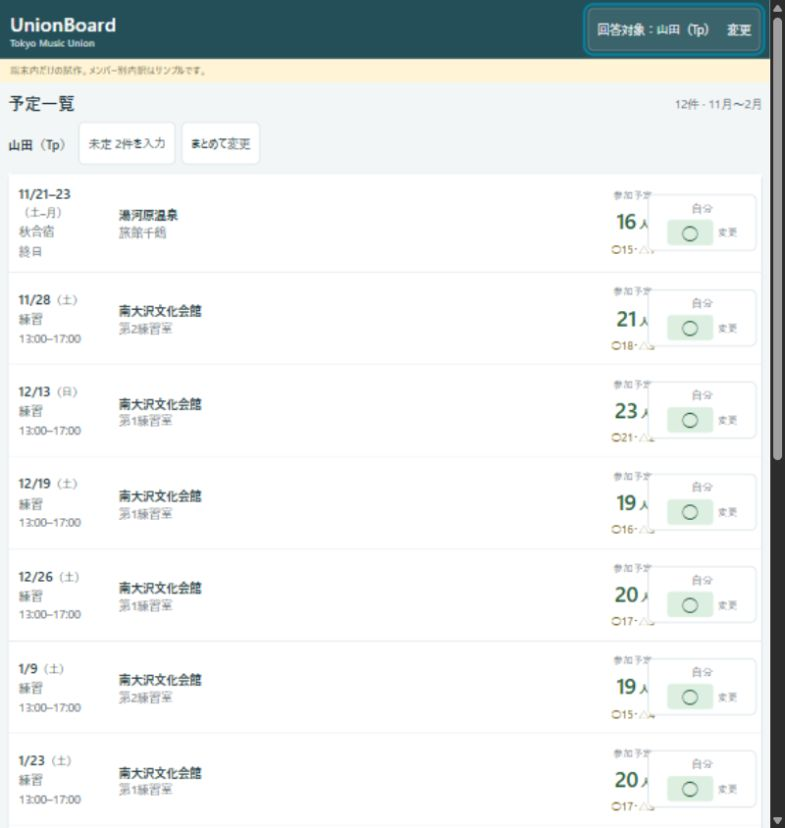
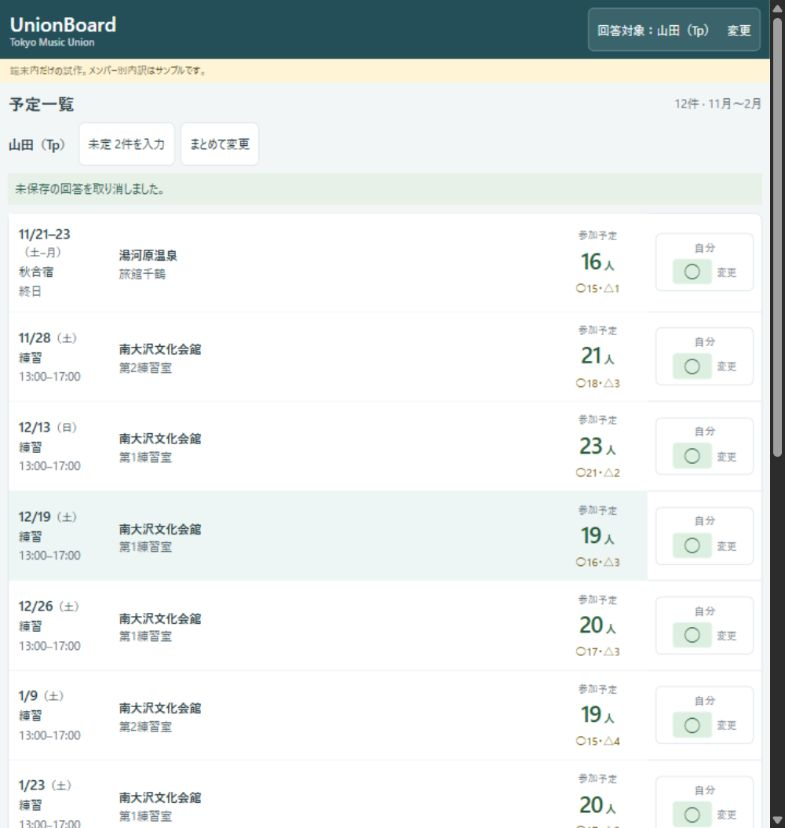
予定人数と自分の回答が重なる配置を修正

diff --git a/docs/prototypes/mobile-study/v4/index.html b/docs/prototypes/mobile-study/v4/index.html
@@ -2,9 +2,11 @@
 <style>
 :root{font:16px system-ui,'Yu Gothic',sans-serif;color:#233942;background:#f3f6f7;--ink:#254f58;--line:#d7e1e4;--yes:#dcefe1;--late:#fff0ba;--no:#f6dbe2;--unknown:#eceff2}*{box-sizing:border-box}[hidden]{display:none!important}body{margin:0;min-block-size:100dvh;overflow-wrap:anywhere}button,input,select,textarea{font:inherit;color:inherit}button,select{min-inline-size:44px;min-block-size:44px;border:1px solid var(--line);border-radius:6px;background:#fff;padding:7px 9px}button{cursor:pointer}button:disabled{opacity:.5;cursor:default}:where(a,button,input,select,textarea,[tabindex]):focus-visible{outline:3px solid #087e9a;outline-offset:2px}p{line-height:1.6;margin:6px 0}h1,h2,h3{margin:0;text-wrap:balance}h1{font-size:20px}h2{font-size:17px}h3{font-size:15px}header{background:var(--ink);color:white;display:flex;justify-content:space-between;align-items:center;gap:7px;padding:8px max(10px,env(safe-area-inset-right,0px)) 8px max(10px,env(safe-area-inset-left,0px))}header small{display:block;font-size:10px;color:#c9dadd}header button{background:#3b636c;border-color:#708f97;color:white;font-size:12px;max-inline-size:62%}.sample{font-size:10px;background:#fff4d5;color:#695b31;margin:0;padding:4px 10px}main{max-inline-size:850px;margin:auto;padding:0 8px 28px;container:board / inline-size}.modes{display:flex;gap:5px;margin:9px 0}.modes button{flex:1;font-size:13px;font-weight:700}.modes [aria-pressed=true]{background:#e2edef;border:2px solid var(--ink)}.heading,.panel-head,.crumb{display:flex;align-items:center;justify-content:space-between;gap:5px;margin:10px 0 7px}.muted{font-size:12px;color:#586c75}.toolbar,.links{display:flex;gap:6px;align-items:center;flex-wrap:wrap;margin:8px 0}.toolbar button,.links button,.links a{font-size:12px}.toolbar strong{font-size:13px}.primary{background:var(--ink);color:white;border-color:var(--ink)}.schedule{width:100%;table-layout:fixed;border-collapse:separate;border-spacing:0;background:white;border:1px solid var(--line);border-radius:8px;font-size:12px}.schedule caption{text-align:start;font-size:11px;color:#5d7079;caption-side:bottom;padding:6px 0}.schedule thead th{position:sticky;inset-block-start:0;background:#e8eff1;z-index:3;font-size:11px}.schedule th,.schedule td{text-align:start;vertical-align:middle;border-bottom:1px solid var(--line);padding:9px 5px}.schedule tbody th{font-weight:400}.schedule th:first-child{width:96px}.schedule th.count-col{width:78px;text-align:center}.schedule th.self-col{width:57px;text-align:center}.date{font-size:15px;font-weight:750;line-height:1.3}.weekday{font-size:11px;font-weight:400}.event-title{font-size:11px;line-height:1.3;margin-top:4px}.time{font-size:11px;color:#52666e;margin-top:2px;line-height:1.5}.place{font-size:12px;font-weight:650;line-height:1.5}.room{display:block;font-size:12px;font-weight:400;color:#536970}.schedule .count-cell{padding:3px}.count-button{width:100%;border:0;background:none;padding:4px 2px;min-block-size:64px;line-height:1.1}.count-main{display:block;font-size:24px;font-weight:750;letter-spacing:-.04em;color:#295e3a}.count-main small{font-size:11px;font-weight:500;letter-spacing:0}.count-sub{display:block;font-size:11px;color:#76580a;margin-top:6px}.count-caption{display:block;font-size:10px;color:#5c747a;margin-top:5px}.self-cell{padding:4px!important;text-align:center!important}.self-button{font-size:22px;inline-size:47px;min-block-size:48px;padding:2px;border-color:#b5cad0}.self-button.unselected{font-size:11px}.self-heading{border:0;background:none;font-size:10px;line-height:1.4;padding:0;width:100%}.performer th:first-child{width:83px}.performer .date{font-size:14px}.performer th.count-col{width:66px}.performer .count-main{font-size:22px}.selected-row>th,.selected-row>td{background:#edf4f4}.expanded-cell{padding:0!important;background:#f3f8f8}.panel{padding:10px 9px;border-block-start:2px solid #638e97}.panel-head{align-items:start;margin-top:0}.panel-head h3{margin-top:7px}.panel-head button{font-size:12px;flex-shrink:0}.detail-note{font-size:11px;color:#60757d;margin:7px 0}.part-list{margin:6px 0 10px}.part-row{display:grid;grid-template-columns:76px 1fr;align-items:center;background:white;border-bottom:1px solid var(--line)}.part-row dt{padding:0 5px}.part-row dt button{width:100%;text-align:start;border:0;background:none;padding:4px;font-size:14px}.part-row dt small{font-size:10px;color:#60757d}.part-row dd{display:grid;grid-template-columns:repeat(4,1fr);gap:3px;margin:0;padding:5px 5px 5px 0}.stat{display:inline-flex;align-items:center;justify-content:center;gap:3px;padding:6px 3px;border-radius:4px;font-size:13px;min-block-size:34px}.yes{background:var(--yes);color:#2a5938}.late{background:var(--late);color:#6d530c}.no{background:var(--no);color:#79344b}.unknown{background:var(--unknown);color:#56616c}.member-list{list-style:none;margin:6px 0;padding:0}.member-list li{display:flex;align-items:center;justify-content:space-between;gap:8px;background:white;padding:3px 6px;border-bottom:1px solid var(--line)}.member-list button{border:0;background:none;text-align:start;font-size:13px}.answer{font-size:13px;padding:5px 9px;border-radius:4px}.event-summary{background:white;padding:12px;border:1px solid var(--line);border-radius:8px;margin-bottom:8px}.event-summary h2{font-size:20px}.event-summary .place{font-size:14px;margin-top:6px;display:block}.counts{display:flex;gap:6px;flex-wrap:wrap;margin-top:8px}.crumb{justify-content:start}.crumb button{font-size:12px}.links{margin-top:14px}.links a{display:inline-flex;align-items:center;min-block-size:44px;padding:6px 8px;color:#315d69}.legend{font-size:11px;color:#566b74;line-height:1.7;margin:8px 0}.lab{margin-top:18px;border-top:1px dashed var(--line);padding-top:6px}.lab summary{min-block-size:44px;display:flex;align-items:center;cursor:pointer;font-size:12px}.lab label{display:flex;align-items:center;gap:7px;font-size:12px;margin:7px 0}.lab select{flex:1;max-inline-size:220px}.status{font-size:12px;color:#2c6251;line-height:1.5}.status:not(:empty){background:#e7f1e8;padding:7px;margin:7px 0}.save-note{font-size:11px;background:#fff2cd;padding:7px}.skip{position:absolute;inset-block-start:-120px;inset-inline-start:7px;z-index:30;background:white;padding:12px}.skip:focus{inset-block-start:3px}dialog{width:calc(100% - 20px);max-inline-size:550px;max-block-size:90vh;max-block-size:90dvh;border:0;border-radius:12px;padding:0;color:inherit;box-shadow:0 10px 45px #153b4b40}dialog[open]{display:flex;flex-direction:column}dialog:modal{overscroll-behavior:contain}dialog::backdrop{background:#193d50a3;overflow:hidden;overscroll-behavior:contain}.dialog-head{display:flex;justify-content:space-between;align-items:center;gap:8px;padding:11px 12px 7px;flex-shrink:0}.dialog-head h2{font-size:17px}.dialog-head button{font-size:12px;flex-shrink:0}.dialog-body{overflow:auto;overscroll-behavior:contain;padding:0 12px 12px;min-block-size:0}.field{display:grid;gap:5px;margin:10px 0}.field label{font-size:13px;font-weight:650}.field select{width:100%}.check{display:flex;align-items:center;gap:7px;min-block-size:44px;font-size:13px}input[type=checkbox]{width:23px;height:23px;accent-color:var(--ink)}.editor-row{border:0;border-bottom:1px solid var(--line);margin:0;padding:12px 0}.editor-row legend{font-size:15px;font-weight:700;padding:0}.editor-meta{display:flex;justify-content:space-between;align-items:start;gap:4px;font-size:11px;margin:3px 0 7px;line-height:1.5}.editor-meta strong{font-weight:500}.choices{display:grid;grid-template-columns:repeat(4,1fr);gap:5px}.choices button{font-size:20px;padding:4px;min-block-size:47px;min-inline-size:44px}.choices button[aria-pressed=true]{outline:2px solid var(--ink);outline-offset:-3px;font-weight:750}.choices small{display:block;font-size:10px;font-weight:400}.editor-row.changed{background:#fffbef}.dialog-foot{border-top:1px solid var(--line);padding:8px 12px max(8px,env(safe-area-inset-bottom,0px));background:white;display:flex;align-items:center;justify-content:space-between;gap:6px;flex-wrap:wrap;flex-shrink:0}.dialog-foot button{font-size:13px}.dialog-foot span{font-size:12px}.editor-filter{display:flex;gap:5px;align-items:center;flex-wrap:wrap;margin:5px 0 9px}.editor-filter button{font-size:12px}.editor-filter [aria-pressed=true]{background:#e1edef;border-color:#5c858e}textarea{width:100%;min-block-size:90px;font-size:16px;padding:9px;border:1px solid var(--line);border-radius:6px}.comment{font-size:13px;white-space:pre-wrap;padding:8px 0;border-bottom:1px solid var(--line)}.matrix-wrap{max-block-size:55vh;overflow:auto;border:1px solid var(--line);border-radius:6px;overscroll-behavior:contain;scroll-padding-inline-start:124px}.matrix{border-collapse:separate;border-spacing:0;font-size:12px;background:white}.matrix th,.matrix td{border-bottom:1px solid var(--line);border-right:1px solid var(--line);padding:5px;text-align:center;min-inline-size:32px}.matrix thead th{position:sticky;top:0;background:#e7eef0;z-index:2;font-size:10px}.matrix tbody th{position:sticky;left:0;background:white;min-inline-size:124px;max-inline-size:124px;z-index:1;font-size:10px;text-align:start}.matrix thead th:first-child{left:0;z-index:4}.matrix th button{font-size:10px;border:0;padding:1px;background:none;min-inline-size:44px}.matrix td{font-size:15px}.matrix caption{text-align:start;padding:6px;font-size:11px;color:#566b73}.person-table{border-collapse:collapse;width:100%;font-size:12px}.person-table td,.person-table th{border-bottom:1px solid var(--line);padding:8px;text-align:start}.person-table th{font-weight:500}.person-table td:last-child{font-size:19px;text-align:center}.person-table caption{text-align:start;font-size:11px;padding:6px 0}.search{min-block-size:44px;width:100%;font-size:16px;border:1px solid var(--line);border-radius:6px;padding:8px}.people-find{list-style:none;margin:5px 0;padding:0}.people-find li{border-bottom:1px solid var(--line)}.people-find button{width:100%;text-align:start;border:0}@container board (inline-size > 650px){.schedule th:first-child,.performer th:first-child{width:150px}.schedule th.count-col{width:120px}.schedule th.self-col{width:90px}.date,.performer .date{font-size:17px}.place,.room,.performer .place,.performer .room{font-size:14px}.event-title,.time,.performer .time{font-size:12px}.part-list{max-inline-size:520px}.schedule th,.schedule td{padding:10px}.count-button{max-inline-size:100px}.self-heading{font-size:12px}}@container board (inline-size < 330px){.schedule th:first-child{width:89px}.schedule th.count-col{width:68px}.performer th:first-child{width:76px}.performer th.count-col{width:59px}.performer th.self-col{width:51px}.schedule th,.schedule td{padding:8px 3px}.place,.room{font-size:11px}.date{font-size:14px}.self-button{inline-size:44px}.count-main{font-size:22px}.part-row{grid-template-columns:64px 1fr}.stat{font-size:12px;padding-inline:2px}}@media(forced-colors:active){.choices [aria-pressed=true]{outline:3px solid Highlight}}@media(prefers-reduced-motion:reduce){*{scroll-behavior:auto!important}}
 
-.cassettes{list-style:none;padding:0;margin:8px 0;border:1px solid var(--line);border-radius:8px;background:white}.cassettes li+li{border-top:1px solid var(--line)}.cassette{display:grid;grid-template-columns:94px minmax(0,1fr) 82px 72px;align-items:center;gap:8px;width:100%;border:0;border-radius:0;text-align:start;background:white;padding:12px 10px;font-weight:400}.cassette:hover{background:#edf5f5}.cassette:focus-visible{outline-offset:-3px}.cassette-count{text-align:center}.cassette .count-caption{display:none}.cassette-self{display:flex;align-items:center;justify-content:end;gap:5px}.self-label{font-size:11px;color:#586c75}.cassette .self-button{display:inline-flex;align-items:center;justify-content:center;width:auto;min-width:26px;min-height:29px;border:0;border-radius:4px;font-size:18px;padding:2px 5px}.cassette .unselected{font-size:11px;background:#eceff2}.chevron{font-size:20px;color:#71838a}.cassette .place,.cassette .room{font-size:12px}.cassette .date{font-size:14px}.cassette .count-main{font-size:23px}.cassette .count-sub{white-space:nowrap}@container board (inline-size < 370px){.cassette{grid-template-columns:88px minmax(0,1fr) 76px;gap:7px;padding:11px 9px}.cassette-self{grid-column:1 / -1;justify-content:start;border-top:1px solid #e8edef;padding-top:7px;margin-top:1px}.cassette-self .chevron{margin-left:auto}.cassette .place,.cassette .room{font-size:12px}}
-.participant-label{font-size:10px;color:#587078;display:block;margin-bottom:3px}
-.cassette-wrap{position:relative}.cassette{padding-right:90px;grid-template-columns:94px minmax(0,1fr) 82px}.cassette>.chevron{display:none}.cassette-self{position:absolute;right:5px;top:50%;transform:translateY(-50%);border:1px solid var(--line);border-radius:6px;padding:5px;min-height:54px;min-width:72px;flex-wrap:wrap;justify-content:center;background:white}.cassette-self .self-label{width:100%;text-align:center}.cassette-self .self-button{font-size:18px;min-width:25px;min-height:25px;padding:1px 4px;border:0;border-radius:4px}.cassette-self .unselected{font-size:11px}.edit-hint{font-size:10px;color:#536d75}@container board (inline-size < 370px){.cassette-wrap{padding-bottom:54px}.cassette{padding-right:9px;grid-template-columns:88px minmax(0,1fr) 76px}.cassette-self{left:9px;right:auto;top:auto;bottom:5px;transform:none;min-height:44px;width:auto;gap:7px;padding:5px 10px;margin:0;border:1px solid var(--line)}.cassette-self .self-label{width:auto}.cassette-wrap:after{content:"";position:absolute;bottom:53px;left:9px;right:9px;border-top:1px solid #e8edef;pointer-events:none}}
+.cassettes{list-style:none;padding:0;margin:8px 0;border:1px solid var(--line);border-radius:8px;background:white}.cassettes li+li{border-top:1px solid var(--line)}
+.cassette-wrap{display:grid;grid-template-columns:minmax(0,1fr) 100px;align-items:center;gap:8px;padding-inline-end:8px}
+.cassette{display:grid;grid-template-columns:94px minmax(0,1fr) 82px;align-items:center;gap:8px;inline-size:100%;min-inline-size:0;border:0;border-radius:0;text-align:start;background:white;padding:12px 10px;font-weight:400}.cassette:hover{background:#edf5f5}.cassette:focus-visible{outline-offset:-3px}.cassette>*{min-inline-size:0}.cassette-count{text-align:center}.cassette .count-caption,.cassette>.chevron{display:none}.cassette .place,.cassette .room{font-size:12px}.cassette .date{font-size:14px}.cassette .count-main{font-size:23px}.cassette .count-sub{white-space:nowrap}.participant-label{font-size:10px;color:#587078;display:block;margin-bottom:3px}
+.cassette-self{display:flex;align-items:center;justify-content:center;flex-wrap:wrap;gap:5px;min-block-size:54px;min-inline-size:0;padding:6px;border:1px solid var(--line);border-radius:6px;background:white}.self-label{font-size:11px;color:#586c75;inline-size:100%;text-align:center}.cassette-self .self-button{display:inline-flex;align-items:center;justify-content:center;inline-size:40px;min-inline-size:0;min-block-size:25px;padding:1px 4px;border:0;border-radius:4px;font-size:18px}.cassette-self .unselected{font-size:11px;background:#eceff2}.edit-hint{font-size:10px;color:#536d75}
+@container board (inline-size < 470px){.cassette-wrap{grid-template-columns:minmax(0,1fr);gap:0;padding-inline-end:0}.cassette{grid-template-columns:80px minmax(0,1fr) 76px;gap:7px;padding:11px 9px}.cassette-self{justify-self:start;flex-wrap:nowrap;min-block-size:44px;margin:0 9px 8px;padding:5px 10px;gap:7px}.cassette-self .self-label{inline-size:auto}}
 </style></head><body><a class="skip" href="#schedule-heading">予定一覧へ</a><header><h1>UnionBoard<small>Tokyo Music Union</small></h1><button id="identity-button">自分を選ぶ</button></header><p class="sample">端末内だけの試作。メンバー別内訳はサンプルです。</p><main id="app"></main><dialog id="dialog" aria-labelledby="dialog-title"><div class="dialog-head"><h2 id="dialog-title"></h2><button id="dialog-close" autofocus>閉じる</button></div><div class="dialog-body" id="dialog-body"></div><div class="dialog-foot" id="dialog-foot" hidden></div></dialog>
 <script>
 'use strict';

diff --git a/docs/prototypes/mobile-study/v4/README.md b/docs/prototypes/mobile-study/v4/README.md
@@ -4,7 +4,7 @@
 
 - タブを撤去し、日程・場所・参加予定人数（○＋△）・○△内訳・自分の回答を常に表示。
 - 日程・場所・人数は詳細画面へ。「自分」は独立したボタンで、未選択ならメンバー選択後に押した日程の編集へ、選択済みなら直接その日の編集モーダルを開く。
-- 表示領域370px未満では自分の回答を下段へ配置。幅が足りる場合は横並び。
+- 表示領域470px未満では自分の回答を下段へ配置。幅が足りる場合は横並び。
 - 未選択なら自分：未選択。選択・任意の端末記憶・詳細からの出欠変更・未定の一括入力は維持。
 - v3とは保存キーを分離。本体・本番は変更せず、保存は端末内のみ。個人別内訳はサンプル。
 
@@ -12,7 +12,7 @@
 
 ## 検証
 
-320・360・390pxは2段、430・800pxは横並びで、ページ横はみ出しなし・12カセット・内部ボタン重複なしを確認。日程部分は詳細へ遷移。「自分」は未選択→山田選択→2/6のみの編集、選択済み→2/14のみの編集を操作確認。山田の2/6を○へ保存し、参加予定9→10と自分の記号の更新を確認しました。実機操作は未確認です。
+絶対配置を削除し、日程本体と自分の回答をGridの別領域に配置。320・360・390・400・480・800・860pxの7幅で横はみ出しと人数／回答ボタンの矩形の重なりがないこと、回答ボタンの高さ44px以上を確認。狭い画面は下段、幅が足りる画面は横並びです。日程部分は詳細へ遷移。「自分」は未選択→山田選択→2/6のみの編集、選択済み→2/14のみの編集を操作確認。山田の2/6を○へ保存し、参加予定9→10と自分の記号の更新を確認しました。実機操作は未確認です。
 
 [390px](./390px.jpg)／[800px](./800px.jpg)
 
